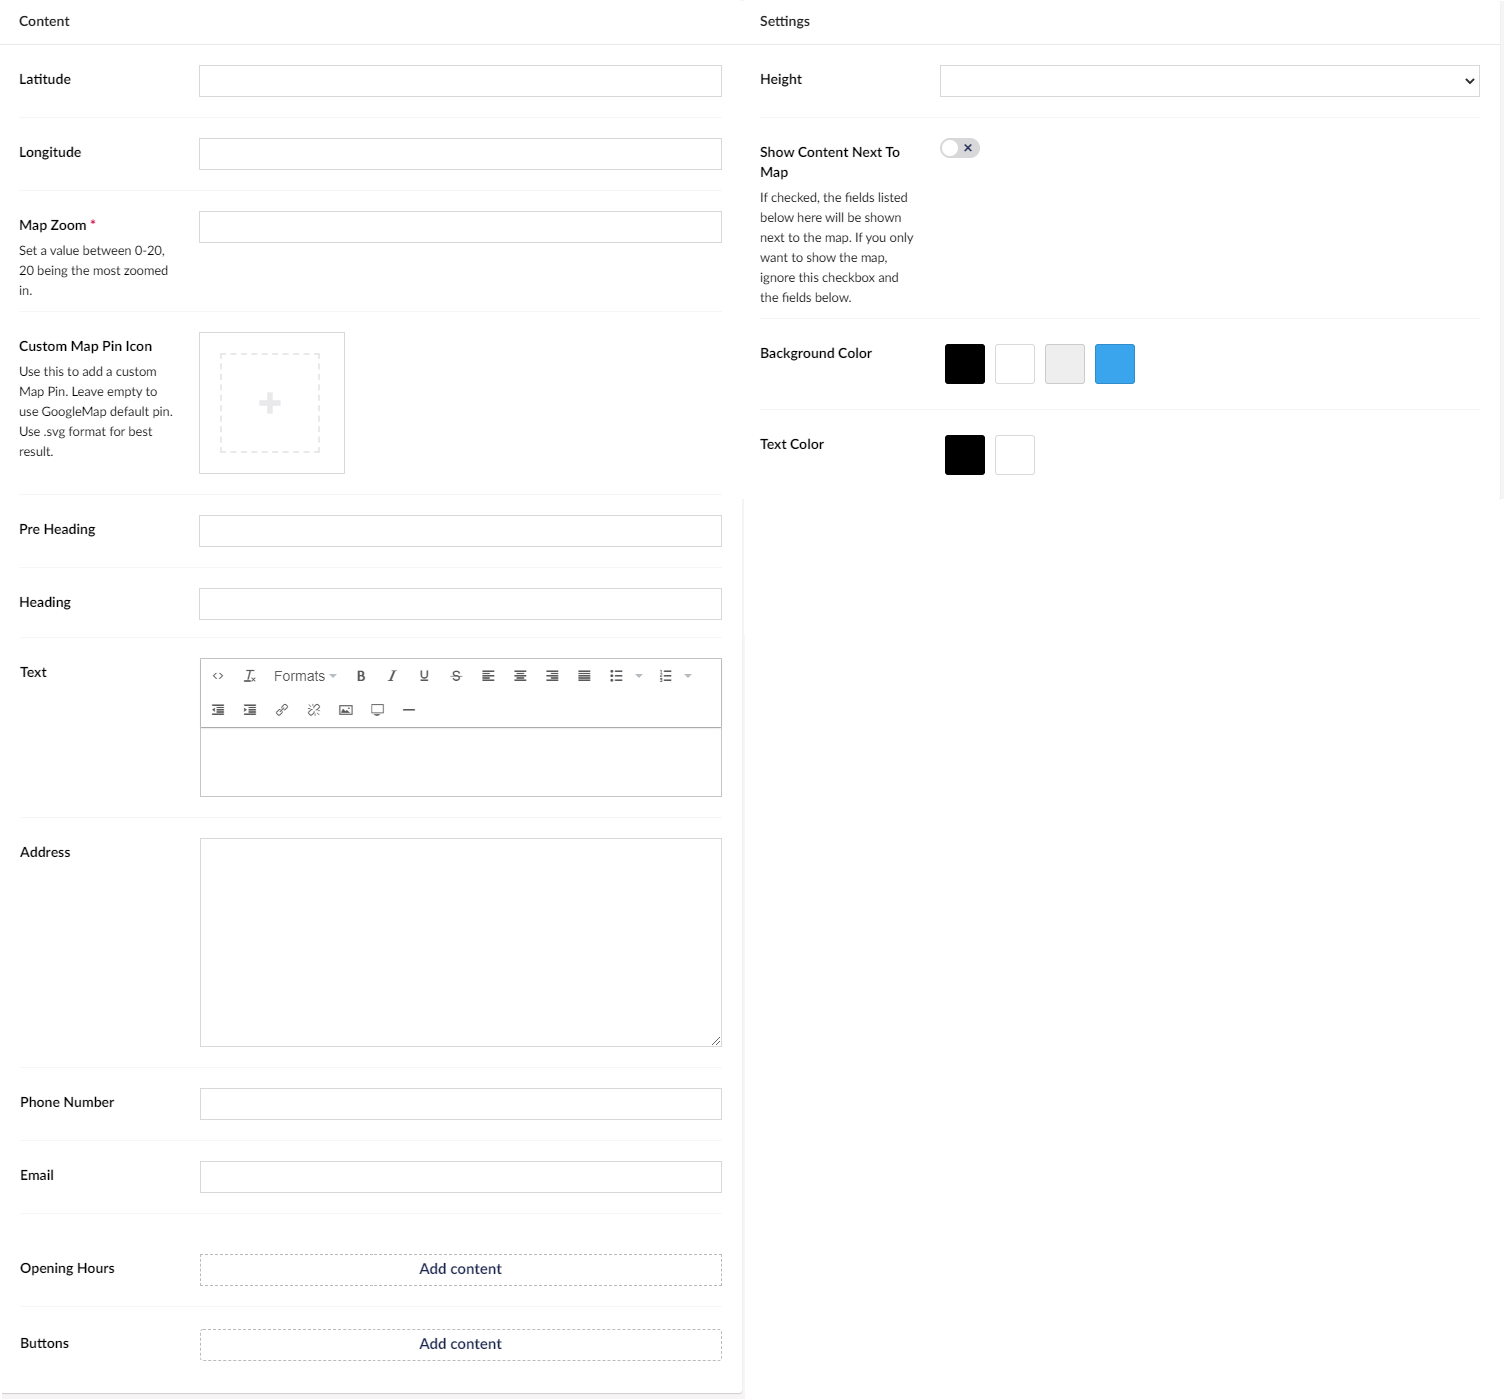
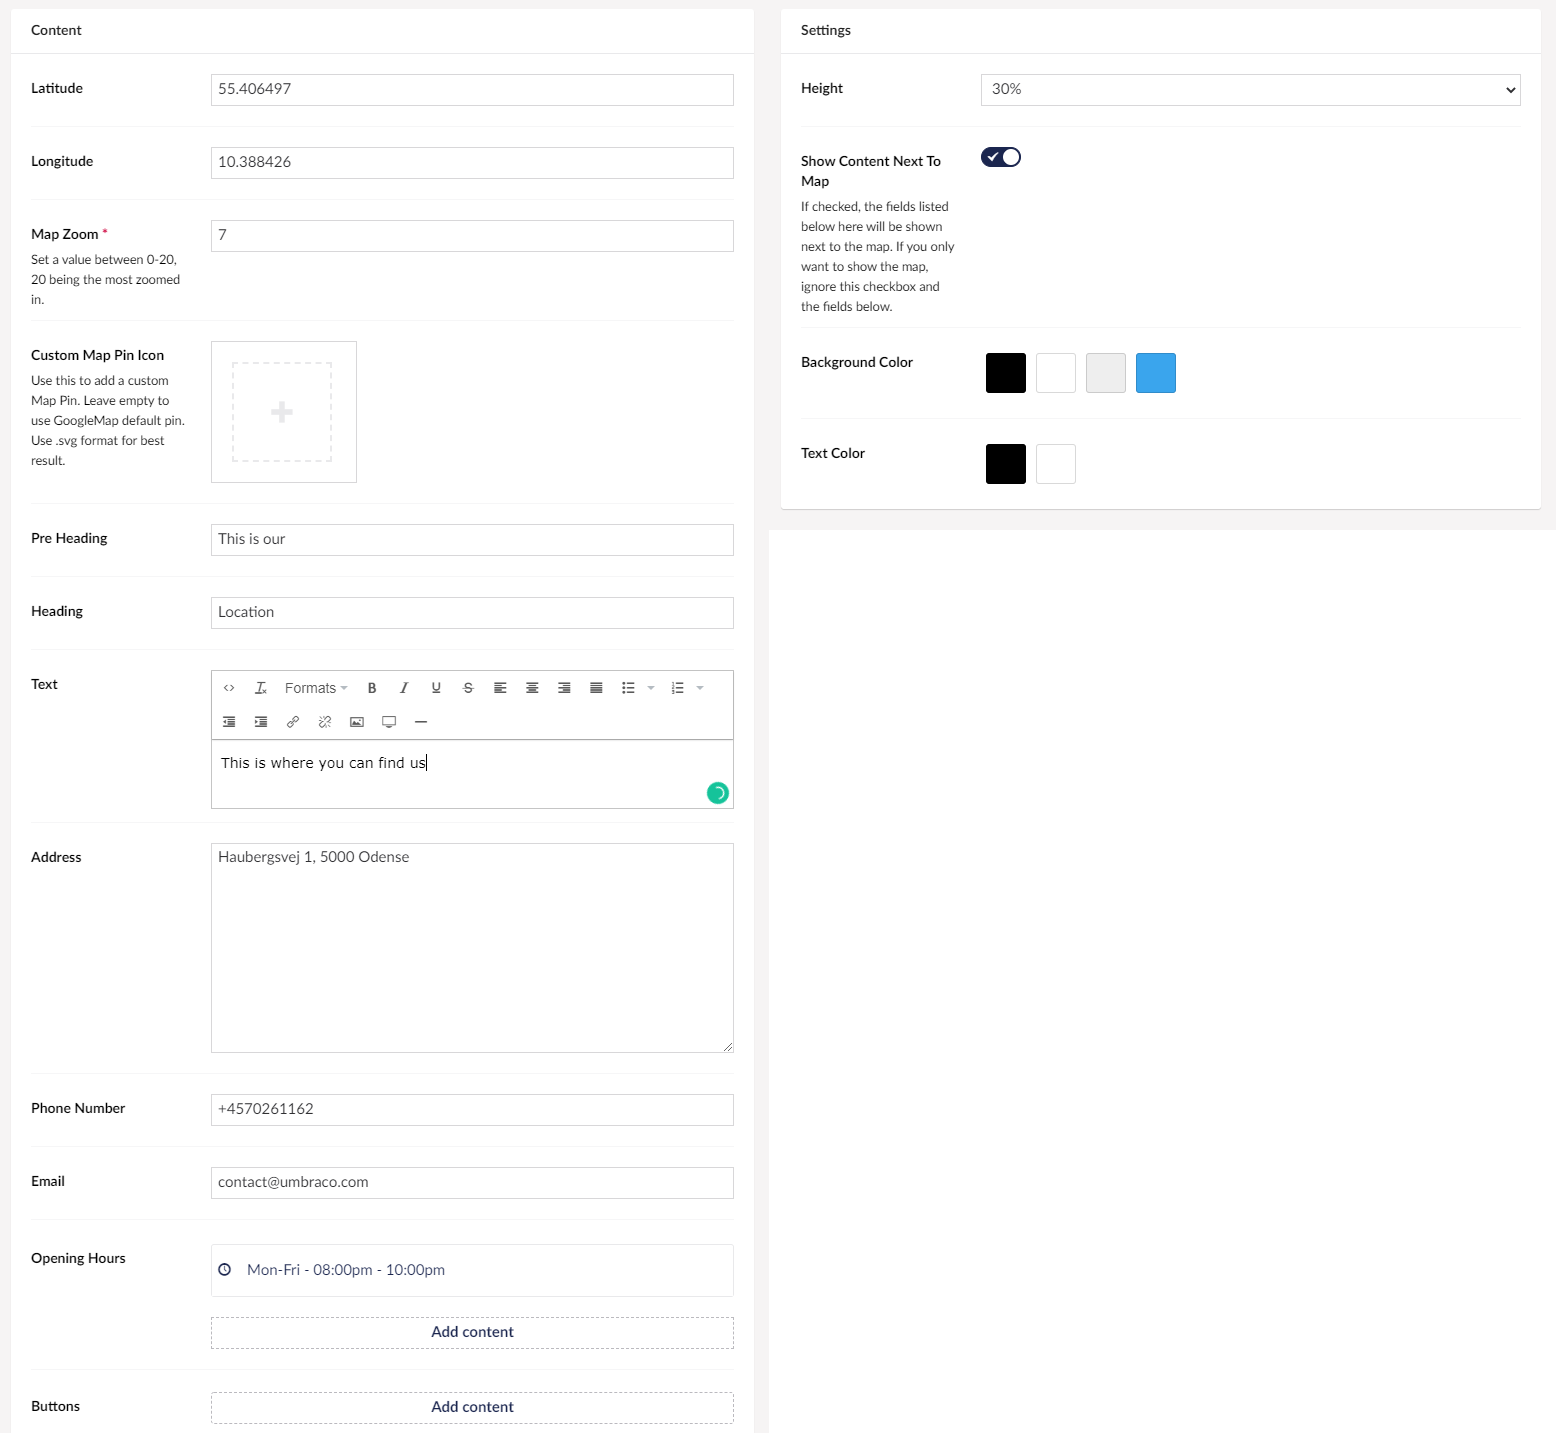
Map widget being updated to 8.7

diff --git a/Umbraco-Uno/Widgets/Map/index.md b/Umbraco-Uno/Widgets/Map/index.md
@@ -4,20 +4,23 @@ versionFrom: 8.0.0
 
 # Map (Google)
 
-![Map widget icon](images/The-Map-Widget1.png)
+The Map widget is a feature that lets you use Google Maps to show the location of your choice, this could be if you need to show where your company is located then the map widget is a very useful widget for this as it will display a map and if you choose to then also the information next to the map. The map will have a pointer set to the ***Latitude*** and ***Longitude*** of your choice.
 
-The Map Widget is a feature that lets you use Google Maps to show the location of your choice, this could be if you need to show where your company is located.
-
-The way it works is that you type in the ***Latitude*** and ***Longitude*** and select how zoomed in you want the map to be on a scale from 0 - 20 with 7 being default.
+The way it works is that you type in the ***Latitude*** and ***Longitude*** and select how zoomed in you want the map to be on a scale from 0 - 20 it is recommended to set it to 7.
 
 ## Sample
 
-![Frontend example of the Map widget with default details added to info fields](images/Map.png)
+![Frontend example of the Map widget with default details added to info fields](images/Map-Front.png)
 
 When ***Show Content Next To Map*** is disabled the blue section on the left will not appear and the map will take up all the space.
 
-## Content
+## Configuration Options
 
+There are quite a few options to make your map work and look the best possible, you will, for example, be able to choose how zoomed in it needs to be.
+
+![the map backoffice](images/Map-Final.png)
+
+## Content
 
 - Custom Map Pin Icon
 - Pre Heading
@@ -35,5 +38,3 @@ When ***Show Content Next To Map*** is disabled the blue section on the left wil
 - Show Content Next To Map
 - Background Color
 - Text Color
-
-![the map backoffice](images/Map-final.png)
